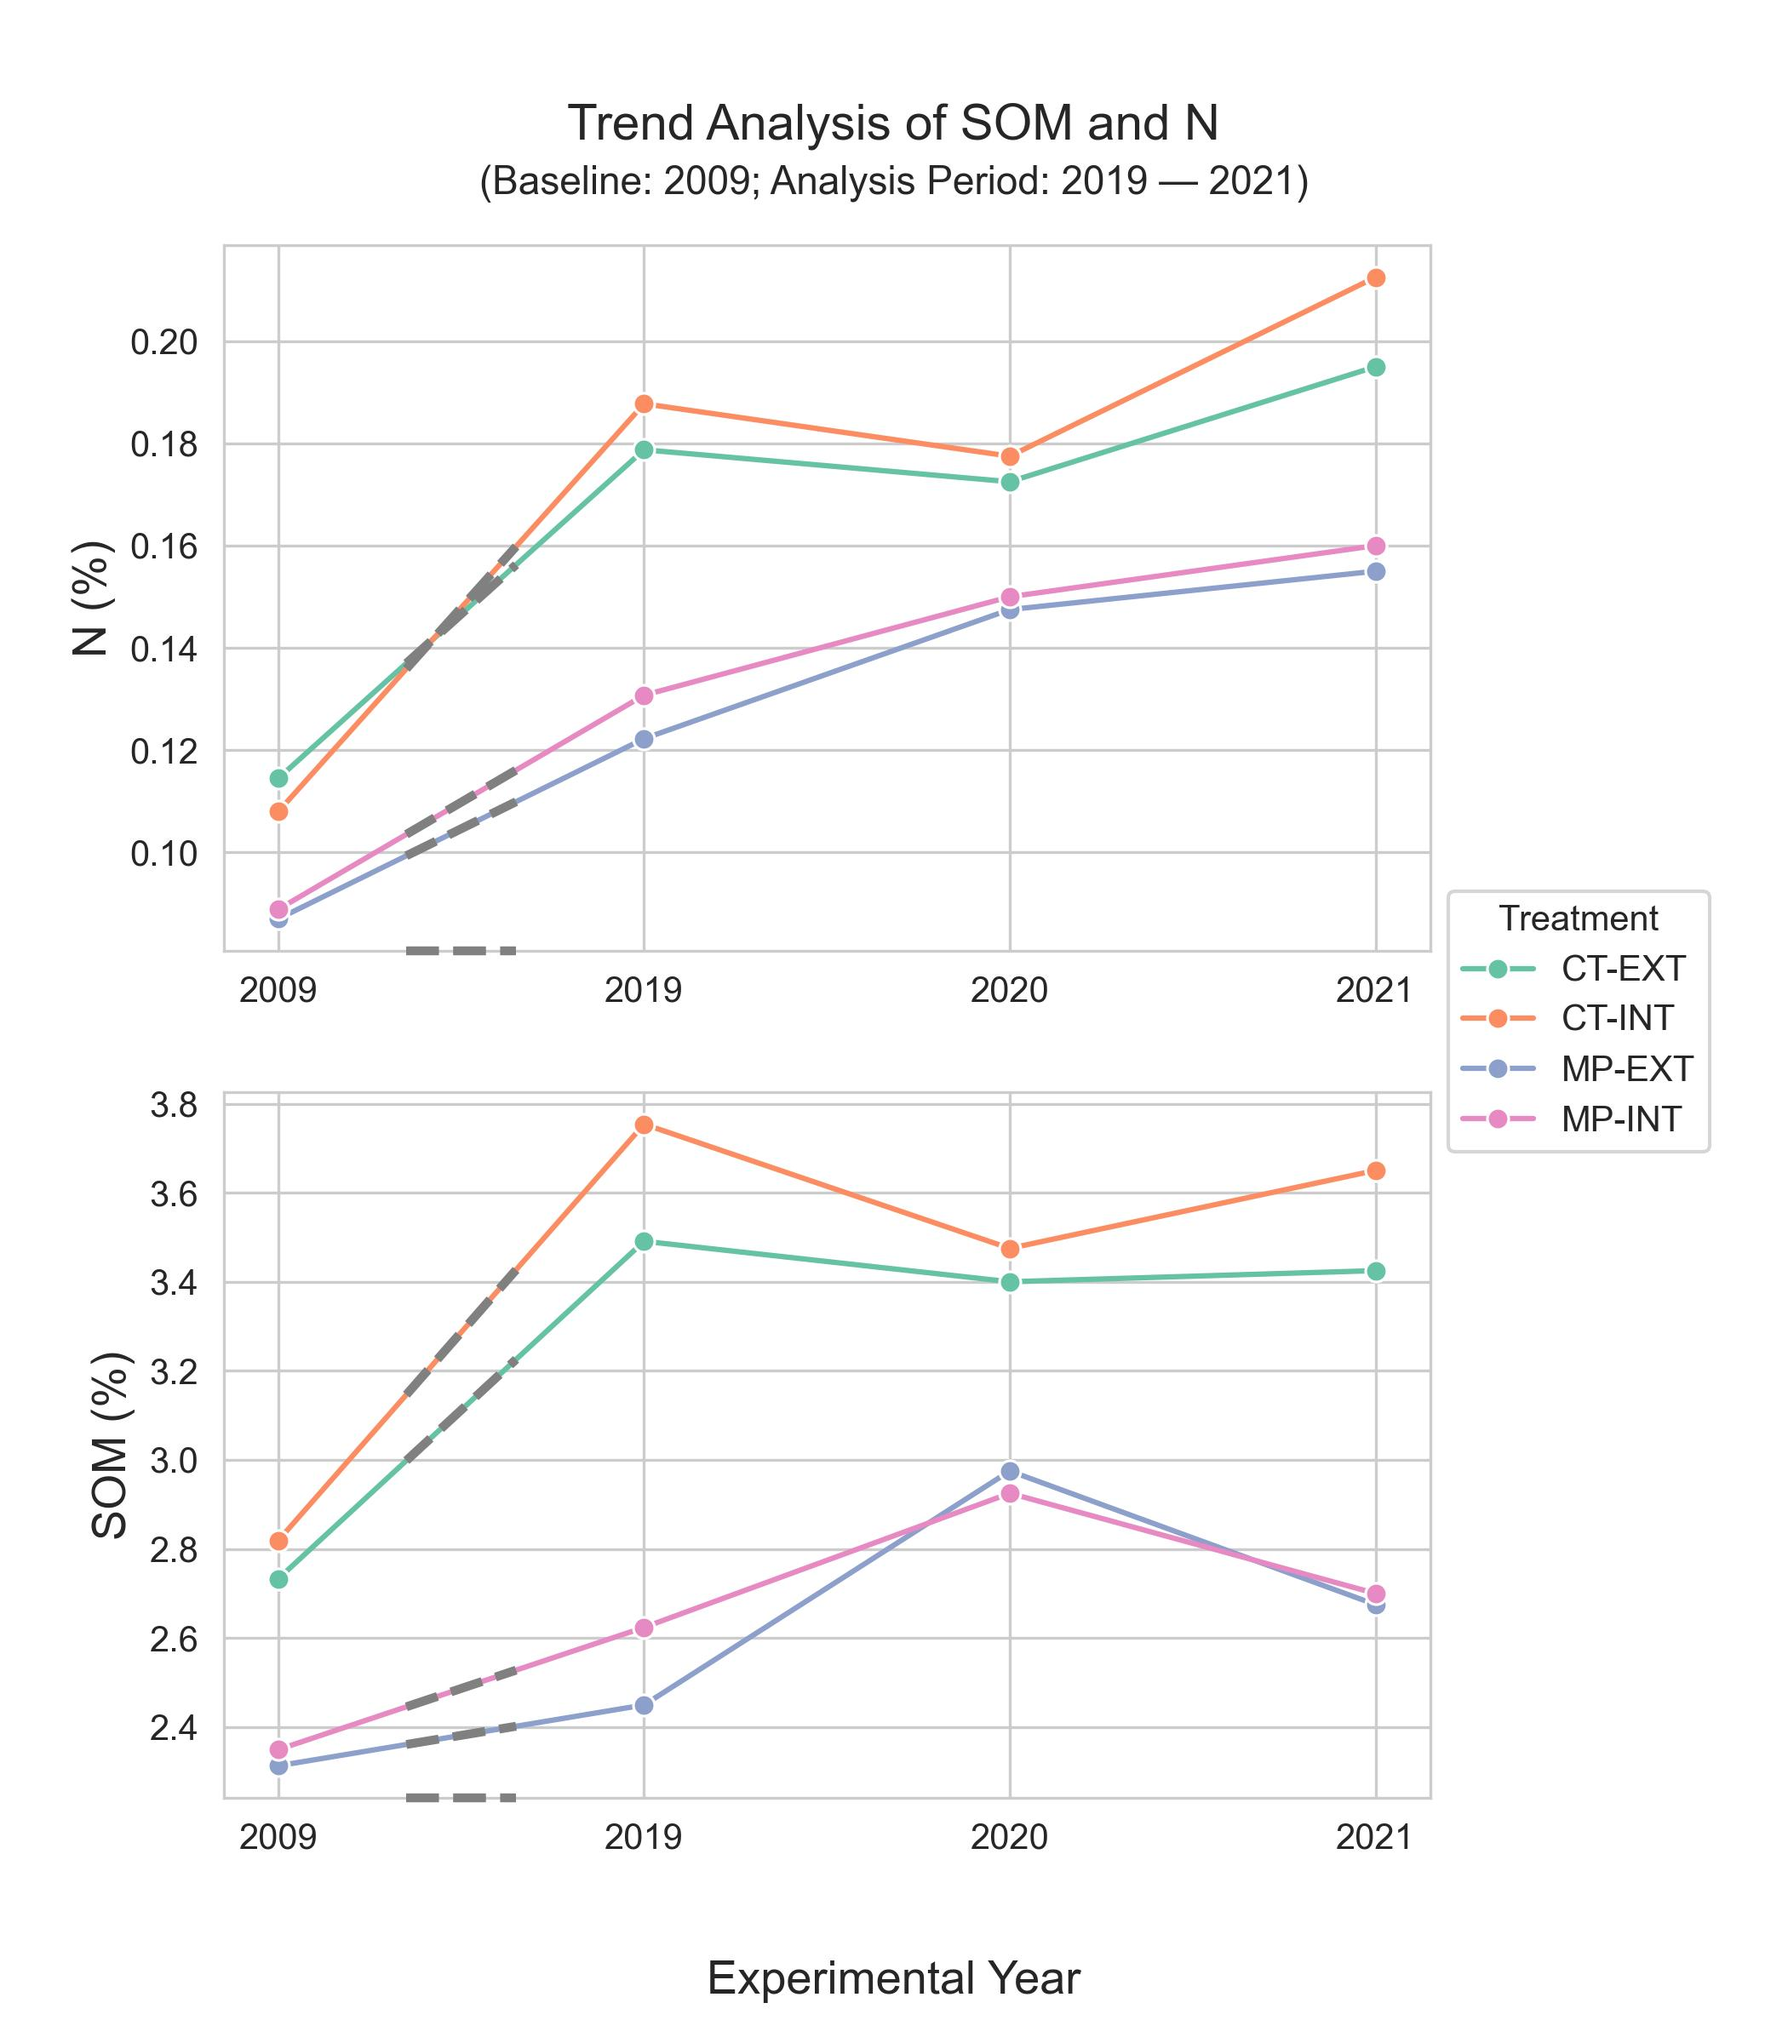
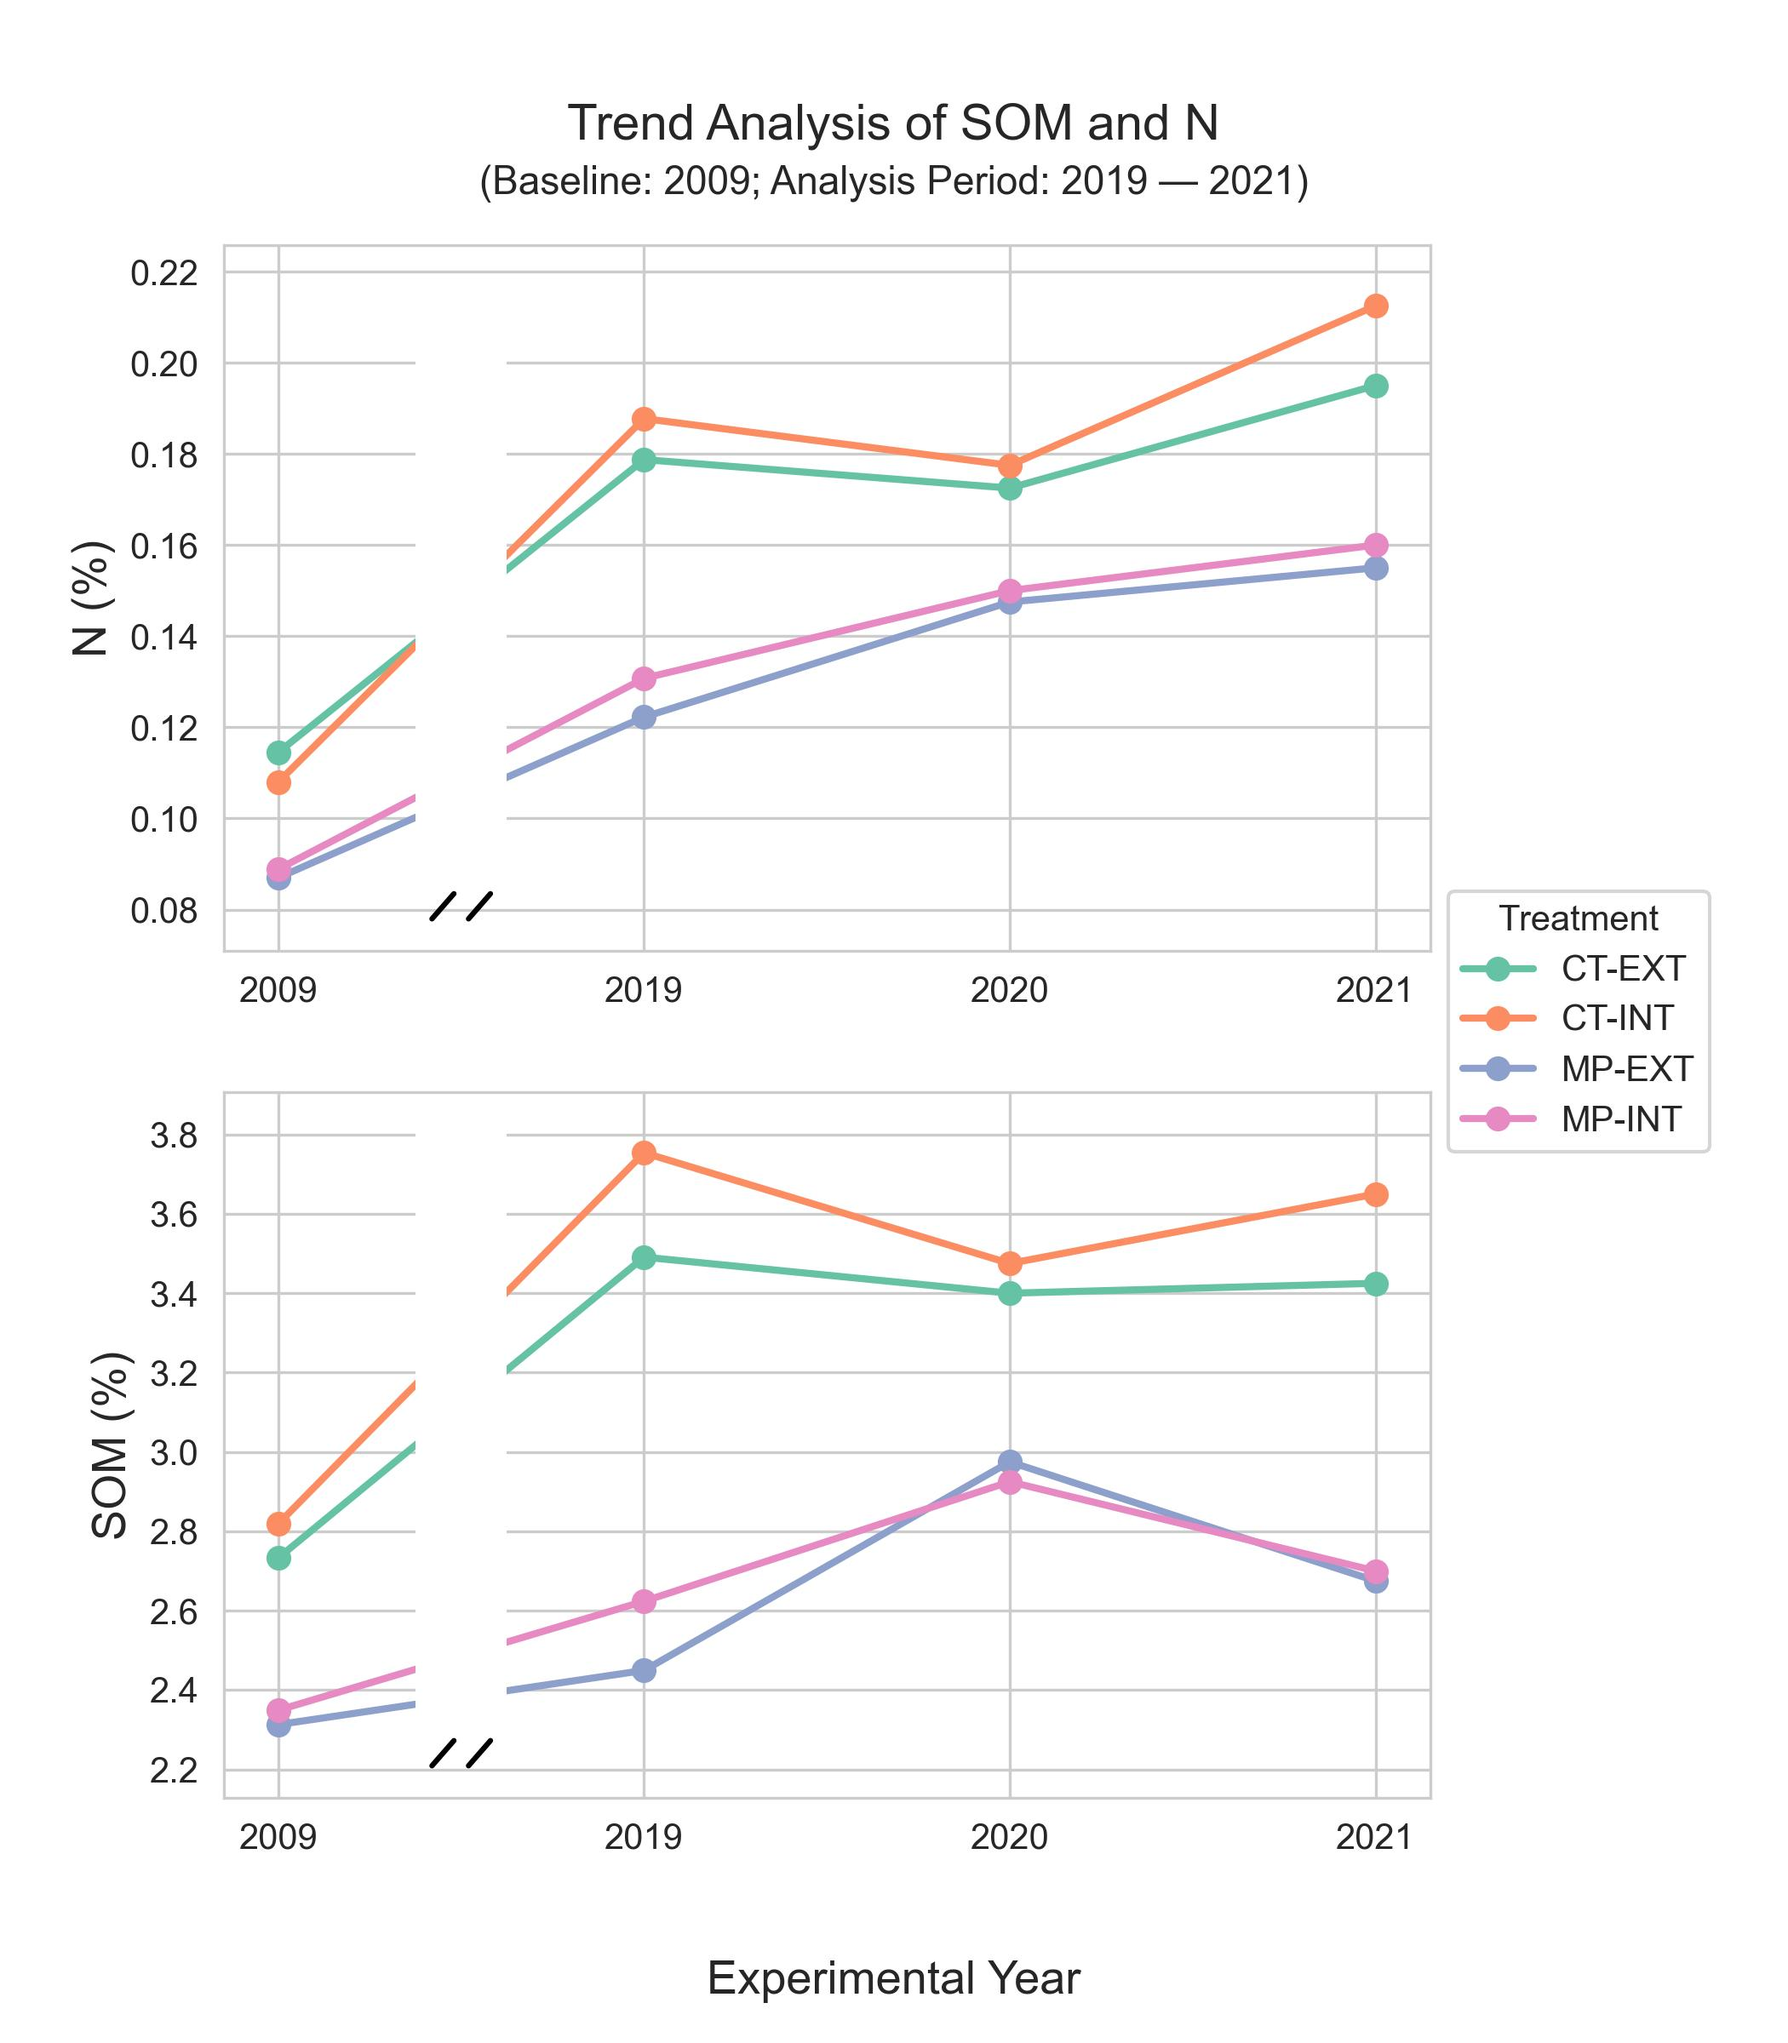
Updates on Fig. S2 (gapped x-axis)

diff --git a/FigS2_SoilData/soil_data_analysis.py b/FigS2_SoilData/soil_data_analysis.py
@@ -2,6 +2,7 @@ import pandas as pd
 import matplotlib.pyplot as plt
 import seaborn as sns 
 import matplotlib.patches as patches
+import numpy as np
 
 df_soil = pd.read_excel("SoilData_2009_2019-2021.xlsx", dtype={'Experimental_Year': str})
 
@@ -18,15 +19,37 @@ palette = sns.color_palette("Set2")
 treatments = df_soil_grouped_reset['Treatment'].unique()
 fig, (ax1, ax2) = plt.subplots(2, 1, figsize=(7, 8))
 
-sns.lineplot(data=df_soil_grouped_reset, x='Experimental_Year', y='N[%]', hue='Treatment', hue_order=treatments, ax=ax1, palette=palette[:4], marker='o')
+# Plot with lines that have a break at the gap markers
+def plot_with_gap(ax, data, y_col, treatments, palette):
+    """Plot lines with a visual gap between 2009 and 2019"""
+    # Get unique years
+    years = sorted(data['Experimental_Year'].unique())
+    year_positions = {year: i for i, year in enumerate(years)}
+    
+    for color_idx, treatment in enumerate(treatments):
+        treatment_data = data[data['Treatment'] == treatment].sort_values('Experimental_Year')
+        
+        # Get all data points
+        x_all = [year_positions[year] for year in treatment_data['Experimental_Year']]
+        y_all = treatment_data[y_col].values
+        
+        # Plot the full line
+        ax.plot(x_all, y_all, 'o-', color=palette[color_idx], label=treatment, linewidth=2, markersize=6)
+    
+    # Set x-axis labels and ticks
+    ax.set_xticks(range(len(years)))
+    ax.set_xticklabels(years)
+    
+    return len(years)
+
+plot_with_gap(ax1, df_soil_grouped_reset, 'N[%]', treatments, palette[:4])
 ax1.set_xlabel('')  
 ax1.set_ylabel('N (%)',  fontsize=13)
-ax1.legend(loc='center left', bbox_to_anchor=(1, -0.1), title='Treatment') 
+ax1.legend(loc='center left', bbox_to_anchor=(1, -0.1), title='Treatment')
 
-sns.lineplot(data=df_soil_grouped_reset, x='Experimental_Year', y='OM[%]', hue='Treatment', hue_order=treatments, ax=ax2, palette=palette[:4], marker='o')
+plot_with_gap(ax2, df_soil_grouped_reset, 'OM[%]', treatments, palette[:4])
 ax2.set_xlabel('')  
 ax2.set_ylabel('SOM (%)',  fontsize=13)
-ax2.get_legend().remove()
 
 #fig.suptitle('Trend Analysis of SOM and N\n(Baseline: 2009, Analysis Period: 2019—2021)', fontsize=14, y=0.95)
 fig.suptitle('Trend Analysis of SOM and N', fontsize=14, y=0.95)
@@ -35,60 +58,29 @@ fig.text(0.5, 0.03, 'Experimental Year', ha='center', va='center', fontsize=13)
 
 plt.subplots_adjust(hspace=0.2, top=0.88, bottom=0.12, right=0.8)
 
-
-def overlay_dashed_segment(ax, y_col):
-    tick_labels = [tick.get_text() for tick in ax.get_xticklabels()]
-    tick_positions = ax.get_xticks()
-    x_positions = {label: pos for label, pos in zip(tick_labels, tick_positions)}
-
-    for treatment in treatments:
-        treatment_data = df_soil_grouped_reset[df_soil_grouped_reset['Treatment'] == treatment]
-        y_start = treatment_data.loc[treatment_data['Experimental_Year'] == '2009', y_col].iloc[0]
-        y_end = treatment_data.loc[treatment_data['Experimental_Year'] == '2019', y_col].iloc[0]
-        x0, x1 = x_positions['2009'], x_positions['2019']
-        x_mid_start = x0 + 0.35 * (x1 - x0)
-        x_mid_end = x0 + 0.65 * (x1 - x0)
-        y_mid_start = y_start + 0.35 * (y_end - y_start)
-        y_mid_end = y_start + 0.65 * (y_end - y_start)
-        ax.plot([x_mid_start, x_mid_end], [y_mid_start, y_mid_end], linestyle='--', color='grey', linewidth=2.5, zorder=15)
-
-overlay_dashed_segment(ax1, 'N[%]')
-overlay_dashed_segment(ax2, 'OM[%]')
-
-
-def get_mid_segment_range(ax, x_start_label='2009', x_end_label='2019', frac_start=0.35, frac_end=0.65):
-    tick_labels = [tick.get_text() for tick in ax.get_xticklabels()]
-    tick_positions = ax.get_xticks()
-    x_positions = {label: pos for label, pos in zip(tick_labels, tick_positions)}
-    x0 = x_positions[x_start_label]
-    x1 = x_positions[x_end_label]
-    x_mid_start = x0 + frac_start * (x1 - x0)
-    x_mid_end = x0 + frac_end * (x1 - x0)
-    return x_mid_start, x_mid_end
-
-
-def draw_x_axis_dashed_segment(ax, color='grey'):
-    x_mid_start, x_mid_end = get_mid_segment_range(ax)
-    ax.plot([x_mid_start, x_mid_end], [0, 0], transform=ax.get_xaxis_transform(),
-            color=color, linestyle='--', linewidth=2.5,
-            zorder=20, clip_on=False)
-
-
-def draw_y0_dashed_line(ax, color='grey'):
+# Add gap markers (diagonal slashes) and break the lines
+def add_gap_with_broken_lines(ax):
+    """Add diagonal slash marks and break lines at the gap position"""
     ymin, ymax = ax.get_ylim()
-    if ymin <= 0 <= ymax:
-        x_mid_start, x_mid_end = get_mid_segment_range(ax)
-        xlim = ax.get_xlim()
-        start_frac = (x_mid_start - xlim[0]) / (xlim[1] - xlim[0])
-        end_frac = (x_mid_end - xlim[0]) / (xlim[1] - xlim[0])
-        ax.axhline(0, xmin=start_frac, xmax=end_frac, color=color,
-                   linestyle='--', linewidth=2.5, zorder=10)
+    y_range = ymax - ymin
+    x_gap = 0.5  # Position between 2009 (0) and 2019 (1)
+    
+    # Draw two diagonal lines to indicate a gap
+    ax.plot([x_gap - 0.08, x_gap - 0.02], [ymin - 0.02*y_range, ymin + 0.02*y_range], 
+            'k-', linewidth=1.5, clip_on=False, zorder=101)
+    ax.plot([x_gap + 0.02, x_gap + 0.08], [ymin - 0.02*y_range, ymin + 0.02*y_range], 
+            'k-', linewidth=1.5, clip_on=False, zorder=101)
+    
+    # Create a white rectangle to "break" the lines - spanning full height
+    gap_width = 0.25
+    from matplotlib.patches import Rectangle
+    rect = Rectangle((x_gap - gap_width/2, ymin), gap_width, y_range, 
+                      facecolor='white', edgecolor='white', linewidth=0, zorder=100)
+    ax.add_patch(rect)
 
-
-draw_x_axis_dashed_segment(ax1)
-draw_x_axis_dashed_segment(ax2)
-draw_y0_dashed_line(ax1)
-draw_y0_dashed_line(ax2)
+# Add gap markers and broken lines to both subplots
+add_gap_with_broken_lines(ax1)
+add_gap_with_broken_lines(ax2)
 
 plt.savefig('FigS2_SoilData.jpg', format='jpeg', dpi=300)
 plt.show()
